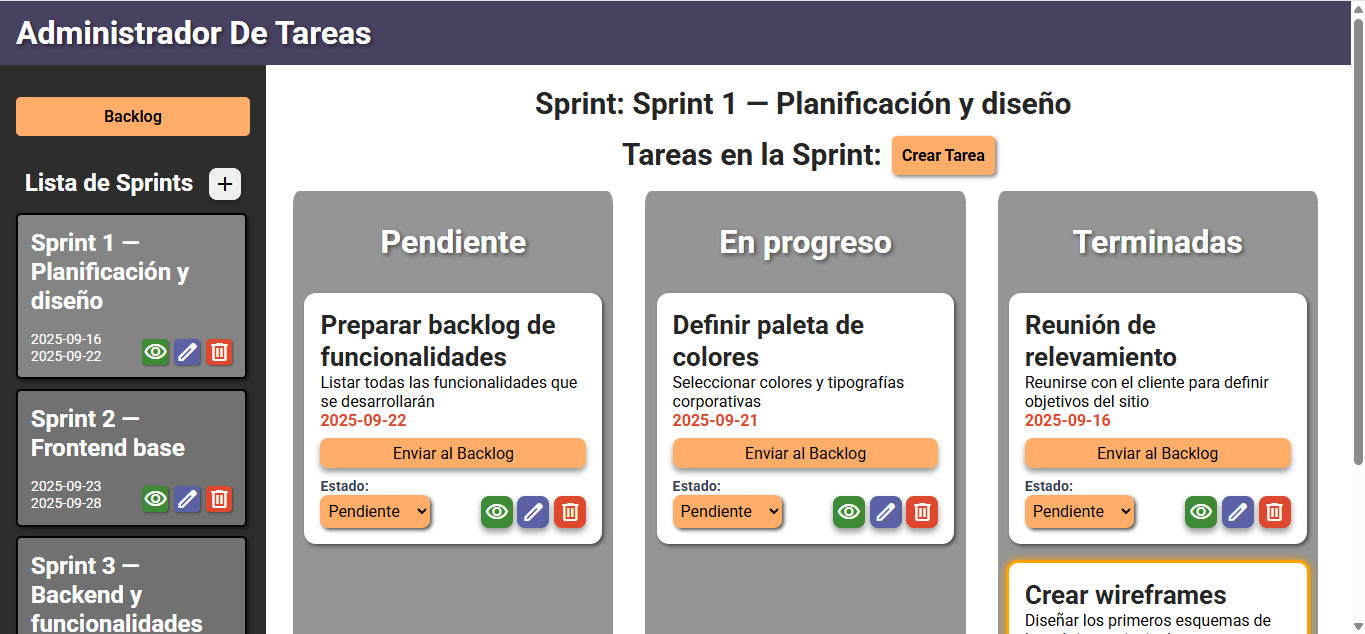
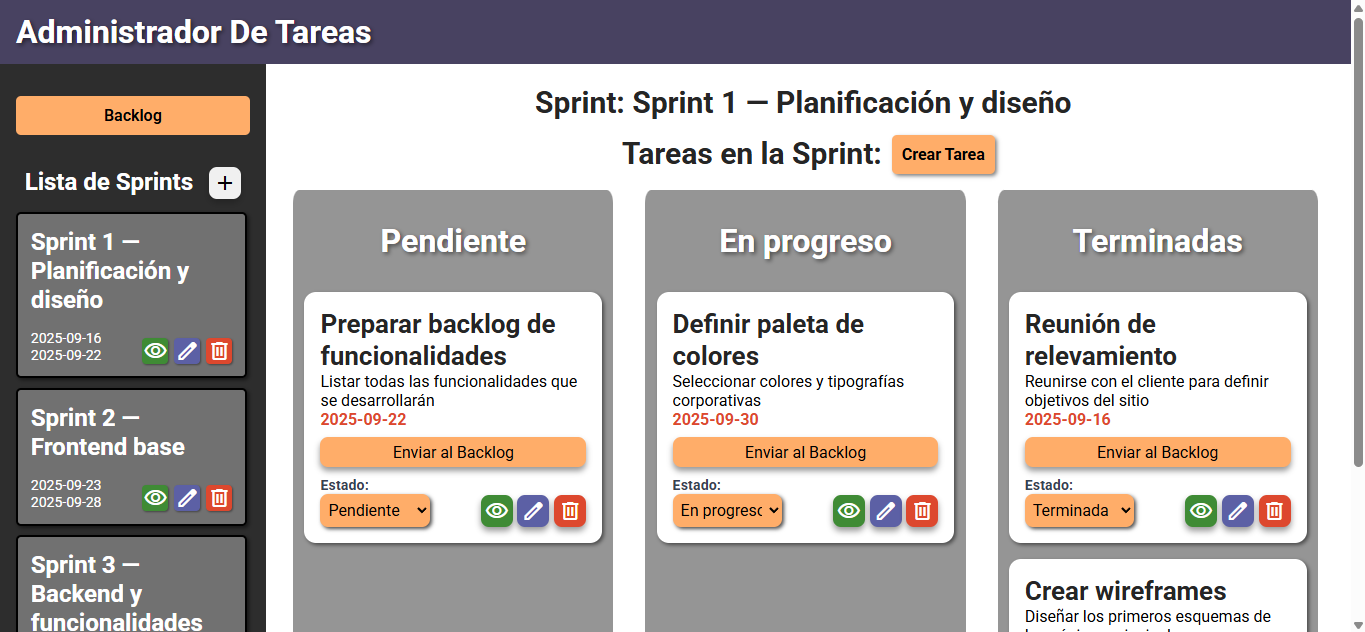
funcionalidades mejoradas

diff --git a/src/store/sprintStore.ts b/src/store/sprintStore.ts
@@ -48,13 +48,23 @@ export const sprintStore = create<ISprintStore>((set) => ({
                 ? { ...sprint, ...sprintEditada }
                 : sprint
         );
-        return { sprints: listaSprintsActualizada };
+        const nuevaSprintActiva = state.sprintActiva?.id === sprintEditada.id
+            ? { ...state.sprintActiva, ...sprintEditada }
+            : state.sprintActiva;
+
+        return { sprints: listaSprintsActualizada, sprintActiva: nuevaSprintActiva };
     }),
 
-    // Agregar una tarea a un sprint por id
     agregarTareaASprint: (sprintId, nuevaTarea) => set((state) => {
-        const sprints = state.sprints.map((sprint) => sprint.id === sprintId ? { ...sprint, tareas: [...sprint.tareas, nuevaTarea] } : sprint)
-        return { sprints }
+        const sprints = state.sprints.map((sprint) =>
+            sprint.id === sprintId
+                ? { ...sprint, tareas: [...sprint.tareas, nuevaTarea] }
+                : sprint)
+        const nuevaSprintActiva = state.sprintActiva?.id === sprintId
+            ? { ...state.sprintActiva, tareas: [...state.sprintActiva.tareas, nuevaTarea] }
+            : state.sprintActiva;
+
+        return { sprints, sprintActiva: nuevaSprintActiva };
     }
     ),
     // Editar una tarea de un sprint
@@ -68,7 +78,16 @@ export const sprintStore = create<ISprintStore>((set) => ({
             }
             return sprint;
         });
-        return { sprints };
+        const nuevaSprintActiva = state.sprintActiva?.id === sprintId
+            ? {
+                ...state.sprintActiva,
+                tareas: state.sprintActiva.tareas.map((tarea) =>
+                    tarea.id === tareaEditada.id ? { ...tarea, ...tareaEditada } : tarea
+                )
+            }
+            : state.sprintActiva;
+
+        return { sprints, sprintActiva: nuevaSprintActiva };
     }),
 
     //Borrar tarea desde sprint

diff --git a/src/components/TareaEntry/TareaEntry.tsx b/src/components/TareaEntry/TareaEntry.tsx
@@ -138,12 +138,12 @@ export default function TareaEntry({ tarea, variant }: ITareaEntryProps) {
                   <Form.Select
                     id={`estado-${tarea.id}`}
                     name="estado"
-                    value={tarea.estado}
+                    value={tarea.estado ?? "Terminada"}
                     onChange={handleChange}
                   >
                     <option value="Pendiente">Pendiente</option>
-                    <option value="En progreso">En progreso</option>
-                    <option value="Terminada">Terminada</option>
+                    <option value="en progreso">En progreso</option>
+                    <option value="terminada">Terminada</option>
                   </Form.Select>
                 </div>
 
